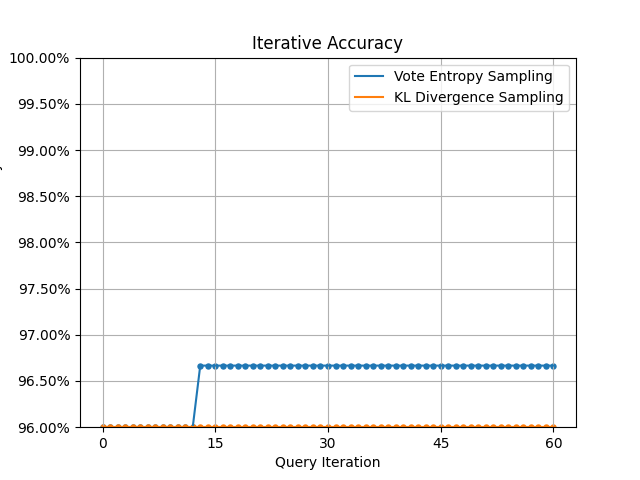
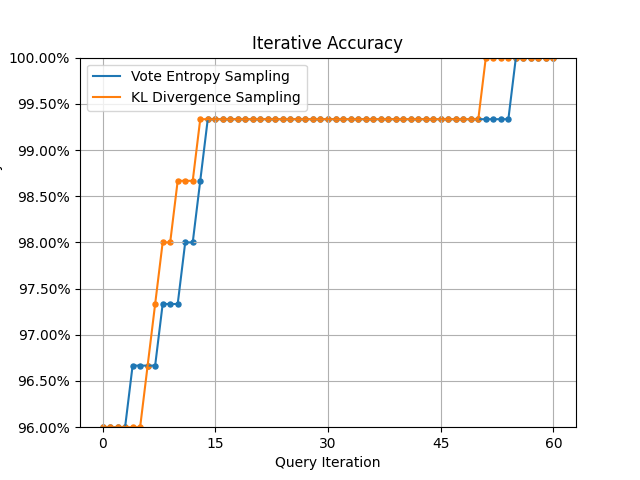
Co-authored-by: Aniruddha Karajgi <akarajgi0@gmail.com>

Changed region(s): [[0.125, 0.125, 0.9062, 0.5938], [0.1875, 0.5625, 0.875, 0.9062], [0.3125, 0.75, 0.875, 0.7812]]

diff --git a/al2bi.py b/al2bi.py
@@ -8,7 +8,32 @@ from sklearn.ensemble import RandomForestClassifier
 from modAL.uncertainty import uncertainty_sampling, margin_sampling, entropy_sampling
 from sklearn.datasets import load_digits
 from sklearn.datasets import load_iris
+from sklearn.preprocessing import MinMaxScaler
+from sklearn.cluster import KMeans
+from modAL.uncertainty import classifier_uncertainty, classifier_margin, classifier_entropy
+from modAL.disagreement import vote_entropy, KL_max_disagreement
 
+
+def random_sampling(classifier, X, n_instances=1):
+
+  query_index = np.random.randint(low=0, high=len(X), size=1)
+  return query_index, X[query_index]
+
+
+def streamify(qs):
+
+  def fun(classifier, X, n_instances=1):
+
+    count = 0
+
+    while (True):
+      count+= 1
+      stream_idx = np.random.choice(range(len(X)))
+
+      if qs(classifier, X[stream_idx].reshape(1, -1)) >= 0.4 or count > 300 :
+        return stream_idx, X[stream_idx]
+
+  return fun
 
 
 def get_learner(query_strategy):
@@ -41,7 +66,7 @@ def get_committee(query_strategy):
 
   # assembling the committee
   committee = Committee(learner_list=learner_list,
-                          query_strategy=vote_entropy_sampling)
+                          query_strategy=query_strategy)
 
   return committee
 
@@ -60,6 +85,7 @@ def plot_predictions(learner, percent, query_strategy):
   ax.scatter(x=x_component[~is_correct], y=y_component[~is_correct], c='r', marker='x', label='Incorrect', alpha=8/10)
   ax.legend(loc='lower right')
   ax.set_title(str(percent * 100) + " percent labelled " + query_strategy + " class predictions (Accuracy: {score:.3f})".format(score= (is_correct.sum()/ len(y_raw))))
+  plt.savefig(str(percent * 100) + " percent labelled " + query_strategy + " predictions.png")
   plt.show()
 
 
@@ -68,10 +94,11 @@ def sampling(learner, num_queries, performance):
   global X_pool, y_pool, X_raw, y_raw
 
   # Allow our model to query our unlabeled dataset for the most
-  # informative points according to our query strategy (uncertainty sampling).
+  # informative points according to our query strategy.
   for index in range(num_queries):
 
     query_index, query_instance = learner.query(X_pool)
+    print(query_index)
 
     # Teach our ActiveLearner model the record it has requested.
     X, y = X_pool[query_index].reshape(1, -1), y_pool[query_index].reshape(1, )
@@ -82,7 +109,7 @@ def sampling(learner, num_queries, performance):
 
     # Calculate and report our model's accuracy.
     model_accuracy = learner.score(X_raw, y_raw)
-    print('Accuracy after query {n}: {acc:0.4f}'.format(n=index + 1, acc=model_accuracy))
+    print('Accuracy after query {n}: {acc:0.4f}\n'.format(n=index + 1, acc=model_accuracy))
 
     # Save our model's performance for plotting.
     performance.append(model_accuracy)
@@ -106,6 +133,22 @@ def plot_accuracies(performance_history, fig, ax, label ):
   ax.set_xlabel('Query Iteration')
   ax.set_ylabel('Classification Accuracy')
 
+def comparison_plot(performances, labels):
+
+  fig = plt.figure()
+  ax = plt.subplot(111)
+
+  label = ""
+
+  for i in range(len(performances)):
+    plot_accuracies(performances[i], fig, ax, labels[i])
+    label = label + labels[i] + '_'
+
+  ax.legend()
+  plt.show()
+  fig.savefig("Accuracies_" + label + ".png")
+
+
 def main(query_strategy, str_query_strategy, is_committee):
 
   global X_pool, y_pool, training_indices
@@ -126,10 +169,8 @@ def main(query_strategy, str_query_strategy, is_committee):
 
   performance = sampling(learner, int(4 * len(X_raw) / 10), performance)
 
-  plot_predictions(learner, 0.4, str_query_strategy)
+  plot_predictions(learner, 0.5, str_query_strategy)
   return performance
-
-
 
 
 # Set our RNG seed for reproducibility.
@@ -139,6 +180,17 @@ np.random.seed(RANDOM_STATE_SEED)
 dataset = load_iris()
 X_raw = dataset['data']
 y_raw = dataset['target']
+num_classes = 3
+
+str_qs = ["Least Confident", "Margin", "Entropy"]
+qs_pool = [uncertainty_sampling, margin_sampling, entropy_sampling]
+qs_stream = [streamify(classifier_uncertainty), streamify(classifier_margin), streamify(classifier_entropy)]
+
+str_qs_qbc = ["Vote Entropy", "KL Divergence"]
+qs_pool_qbc = [vote_entropy_sampling, max_disagreement_sampling]
+qs_stream_qbc = [streamify(vote_entropy), streamify(KL_max_disagreement)]
+
+
 
 # -------------for visualization---------------
 # # Define our PCA transformer and fit it onto our raw dataset.
@@ -148,10 +200,11 @@ transformed_dataset = pca.fit_transform(X=X_raw)
 # Isolate the data we'll need for plotting.
 x_component, y_component = transformed_dataset[:, 0], transformed_dataset[:, 1]
 
-# Plot our dimensionality-reduced (via PCA) dataset.
+#Plot our dimensionality-reduced (via PCA) dataset.
 plt.figure(figsize=(8.5, 6), dpi=130)
 plt.scatter(x=x_component, y=y_component, c=y_raw, cmap='viridis', s=50, alpha=8/10)
 plt.title('Dataset classes after PCA transformation')
+plt.savefig("Dataset.png")
 plt.show()
 
 
@@ -169,30 +222,126 @@ print()
 choice = input("Select a choice:\n\n1) Uncertainty Sampling\n2) QBC Sampling\n3) Version Space Sampling\n4) Random Sampling\n5) Cluster based sampling\n\n")
 choice = int(choice)
 
+
 if (choice == 1):
 
-  performance1 = main(uncertainty_sampling, "Uncertainty Sampling", False)
-  performance2 = main(margin_sampling, "Margin Sampling", False)
-  performance3 = main(entropy_sampling, "Entropy Sampling", False)
+  pf_pool = []
+  pf_stream = []
 
-  fig = plt.figure()
-  ax = plt.subplot(111)
-  plot_accuracies(performance1, fig, ax, "Uncertainty Sampling")
-  plot_accuracies(performance2, fig, ax, "Margin Sampling")
-  plot_accuracies(performance3, fig, ax, "Entropy Sampling")
-  ax.legend()
-  plt.show()
-  fig.savefig("Accuracies_Uncertainty.png")
+  for i in range(len(qs_pool)):
+
+    print("\n**************** Pool based " + str_qs[i] + " *******************\n")
+    pf_pool.append(main(qs_pool[i], str_qs[i] + " Pool", False))
+    print("\n**************** Stream based " + str_qs[i] + " *******************\n")
+    pf_stream.append(main(qs_stream[i], str_qs[i] + " Stream", False))
+    comparison_plot([pf_pool[i], pf_stream[i]], [str_qs[i] + ' Pool', str_qs[i] + ' Stream'])
+
+
+  comparison_plot(pf_pool, [i + " Pool" for i in str_qs])
+  comparison_plot(pf_stream, [i + " Stream" for i in str_qs])
+
 
 elif (choice == 2):
 
-  performance1 = main(uncertainty_sampling, "Vote Entropy Sampling", True)
-  performance2 = main(margin_sampling, "KL Divergence Sampling", True)
+  pf_pool = []
+  pf_stream = []
 
-  fig = plt.figure()
-  ax = plt.subplot(111)
-  plot_accuracies(performance1, fig, ax, "Vote Entropy Sampling")
-  plot_accuracies(performance2, fig, ax, "KL Divergence Sampling")
-  ax.legend()
-  plt.show()
-  fig.savefig("Accuracies_QBC.png")
+  for i in range(len(qs_pool_qbc)):
+
+    print("\n**************** Pool based " + str_qs_qbc[i] + " *******************\n")
+    pf_pool.append(main(qs_pool_qbc[i], str_qs_qbc[i]+ " Pool", True))
+    print("\n**************** Stream based " + str_qs_qbc[i] + " *******************\n")
+    pf_stream.append(main(qs_stream_qbc[i], str_qs_qbc[i] + " Stream", True))
+    comparison_plot([pf_pool[i], pf_stream[i]], [str_qs_qbc[i] + ' Pool', str_qs_qbc[i] + ' Stream'])
+
+
+  comparison_plot(pf_pool, [i + " Pool" for i in str_qs_qbc])
+  comparison_plot(pf_stream, [i + " Stream" for i in str_qs_qbc])
+
+elif (choice == 4):
+
+  pf_pool = [0, 0]
+  pf_stream = [0, 0]
+  labels_pool = ["", ""]
+  labels_stream = ["", ""]
+
+  for i in range(len(qs_pool)):
+
+    print("\n**************** Pool based " + str_qs[i] + " *******************\n")
+    pf = main(qs_pool[i], str_qs[i] + " Pool", False)
+    if pf > pf_pool[0]:
+      pf_pool[0] = pf
+      labels_pool[0] = str_qs[i] + " Pool"
+
+    print("\n**************** Stream based " + str_qs[i] + " *******************\n")
+    pf = main(qs_stream[i], str_qs[i] + " Stream", False)
+    if pf > pf_stream[0]:
+      pf_stream[0] = pf
+      labels_stream[0] = str_qs[i] + " Stream"
+
+  for i in range(len(qs_pool_qbc)):
+
+    print("\n**************** Pool based " + str_qs_qbc[i] + " *******************\n")
+    pf = main(qs_pool_qbc[i], str_qs_qbc[i] + " Pool", True)
+    if pf > pf_pool[0]:
+      pf_pool[1] = pf
+      labels_pool[1] = str_qs[i] + " Pool"
+    print("\n**************** Stream based " + str_qs_qbc[i] + " *******************\n")
+    pf = main(qs_stream_qbc[i], str_qs_qbc[i] + " Stream", True)
+    if pf > pf_stream[1]:
+      pf_stream[1] = pf
+      labels_stream[1] = str_qs_qbc[i] + " Stream"
+
+  pf_stream[2] = main(random_sampling, "Random Sampling")
+  labels_pool[2] = "Random Sampling"
+  pf_pool[2] = pf_stream[2]
+  labels_stream[2] = labels_pool[2]
+
+  comparison_plot(pf_pool, labels_pool)
+  comparison_plot(pf_stream, labels_stream)
+
+
+
+elif (choice == 5):
+
+  X_pool = np.delete(X_raw, training_indices, axis=0)
+  y_pool = np.delete(y_raw, training_indices, axis=0)
+
+  learner = ActiveLearner(
+          estimator=RandomForestClassifier(),
+          X_training=X_train, y_training=y_train
+      )
+
+  plot_predictions(learner, 0.1, "Cluster Sampling")
+
+  clust_indices = np.random.randint(low=0, high=len(X_pool), size=int(len(X_raw) * 0.4))
+  X_clust = X_pool[clust_indices]
+  y_clust = y_pool[clust_indices]
+
+  scaler = MinMaxScaler()
+  X_clust = scaler.fit_transform(X_clust)
+
+  kmeans = KMeans(n_clusters = num_classes)
+  kmeans.fit(X_clust)
+  predictions = kmeans.predict(X_clust)
+
+  clusters = np.array([X_clust[predictions == i] for i in range(3)])
+  cluster_targets = np.array([y_clust[predictions == i] for i in range(3)])
+
+  label_count = 0.1 * len(X_raw)
+
+  for i in range(len(clusters)):
+
+    sample_indices = np.random.randint(low=0, high=len(clusters[i]), size=int(len(clusters[i]) * 0.2))
+    sample = cluster_targets[i][sample_indices]
+    label_count+= len(sample_indices)
+    label = np.bincount(sample).argmax()
+    cluster_targets[i].fill(label)
+    learner.teach(X= clusters[i], y=cluster_targets[i])
+
+  model_accuracy = learner.score(X_raw, y_raw)
+  print("Cluster Sampling Accuracy is: ", model_accuracy)
+  print("Cost saved = Rs.", (len(X_raw) - label_count) * 100)
+  print("Hours saved: ", len(X_raw) - label_count)
+
+  plot_predictions(learner, 0.5, "Cluster Sampling")

diff --git a/al2bii.py b/al2bii.py
@@ -37,18 +37,19 @@ from modAL.disagreement import vote_entropy_sampling, max_disagreement_sampling
 n_members = 5
 learner_list = list()
 
+# initial training data
+percent = 0.1
+n_labeled_examples = X_pool.shape[0]
+train_idx = np.random.randint(low=0, high=n_labeled_examples, size=int(n_labeled_examples * percent))
+X_train = X_pool[train_idx]
+y_train = y_pool[train_idx]
+
+# creating a reduced copy of the data with the known instances removed
+X_pool = np.delete(X_pool, train_idx, axis=0)
+y_pool = np.delete(y_pool, train_idx)
+
+
 for member_idx in range(n_members):
-    # initial training data
-    percent = 0.1
-    n_labeled_examples = X_pool.shape[0]
-    train_idx = np.random.randint(low=0, high=n_labeled_examples, size=int(n_labeled_examples * percent))
-    X_train = X_pool[train_idx]
-    y_train = y_pool[train_idx]
-
-    # creating a reduced copy of the data with the known instances removed
-    X_pool = np.delete(X_pool, train_idx, axis=0)
-    y_pool = np.delete(y_pool, train_idx)
-
     # initializing learner
     learner = ActiveLearner(
         estimator=RandomForestClassifier(),
@@ -83,6 +84,7 @@ performance_history = [unqueried_score]
 n_queries = 4 * n_initial
 for idx in range(n_queries):
     query_idx, query_instance = committee.query(X_pool)
+    print(query_idx)
     committee.teach(
         X=X_pool[query_idx].reshape(1, -1),
         y=y_pool[query_idx].reshape(1, )

diff --git a/al2bstream1.py b/al2bstream1.py
@@ -1,6 +1,7 @@
 import numpy as np
 from sklearn.preprocessing import StandardScaler
 import pandas as pd
+from sklearn.datasets import load_iris
 
 data = pd.read_csv('devindex.csv')
 scaler = StandardScaler()
@@ -37,6 +38,10 @@ X_raw = np.array(data.iloc[:, :-1])
 y_raw = np.array(data.iloc[:, -1])
 # print(X_full, y_full)
 
+dataset = load_iris()
+X_raw = dataset['data']
+y_raw = dataset['target']
+
 import matplotlib as mpl
 import matplotlib.pyplot as plt
 
@@ -53,7 +58,7 @@ from modAL.models import ActiveLearner
 
 percent = 0.1
 n_labeled_examples = X_raw.shape[0] # len
-training_indices = np.random.randint(low=0, high=n_labeled_examples + 1, size=int(n_labeled_examples * percent))
+training_indices = np.random.randint(low=0, high=n_labeled_examples, size=int(n_labeled_examples * percent))
 
 X_train = X_raw[training_indices]
 y_train = y_raw[training_indices]
@@ -94,6 +99,7 @@ num_queried = 0
 # learning until the accuracy reaches a given threshold
 while num_queried < 20:
     stream_idx = np.random.choice(range(len(X_stream)))
+    print(stream_idx)
     if classifier_uncertainty(learner, X_stream[stream_idx].reshape(1, -1)) >= 0.4:
         learner.teach(X_stream[stream_idx].reshape(1, -1), y_stream[stream_idx].reshape(-1, ))
         new_score = learner.score(X_stream, y_stream)
